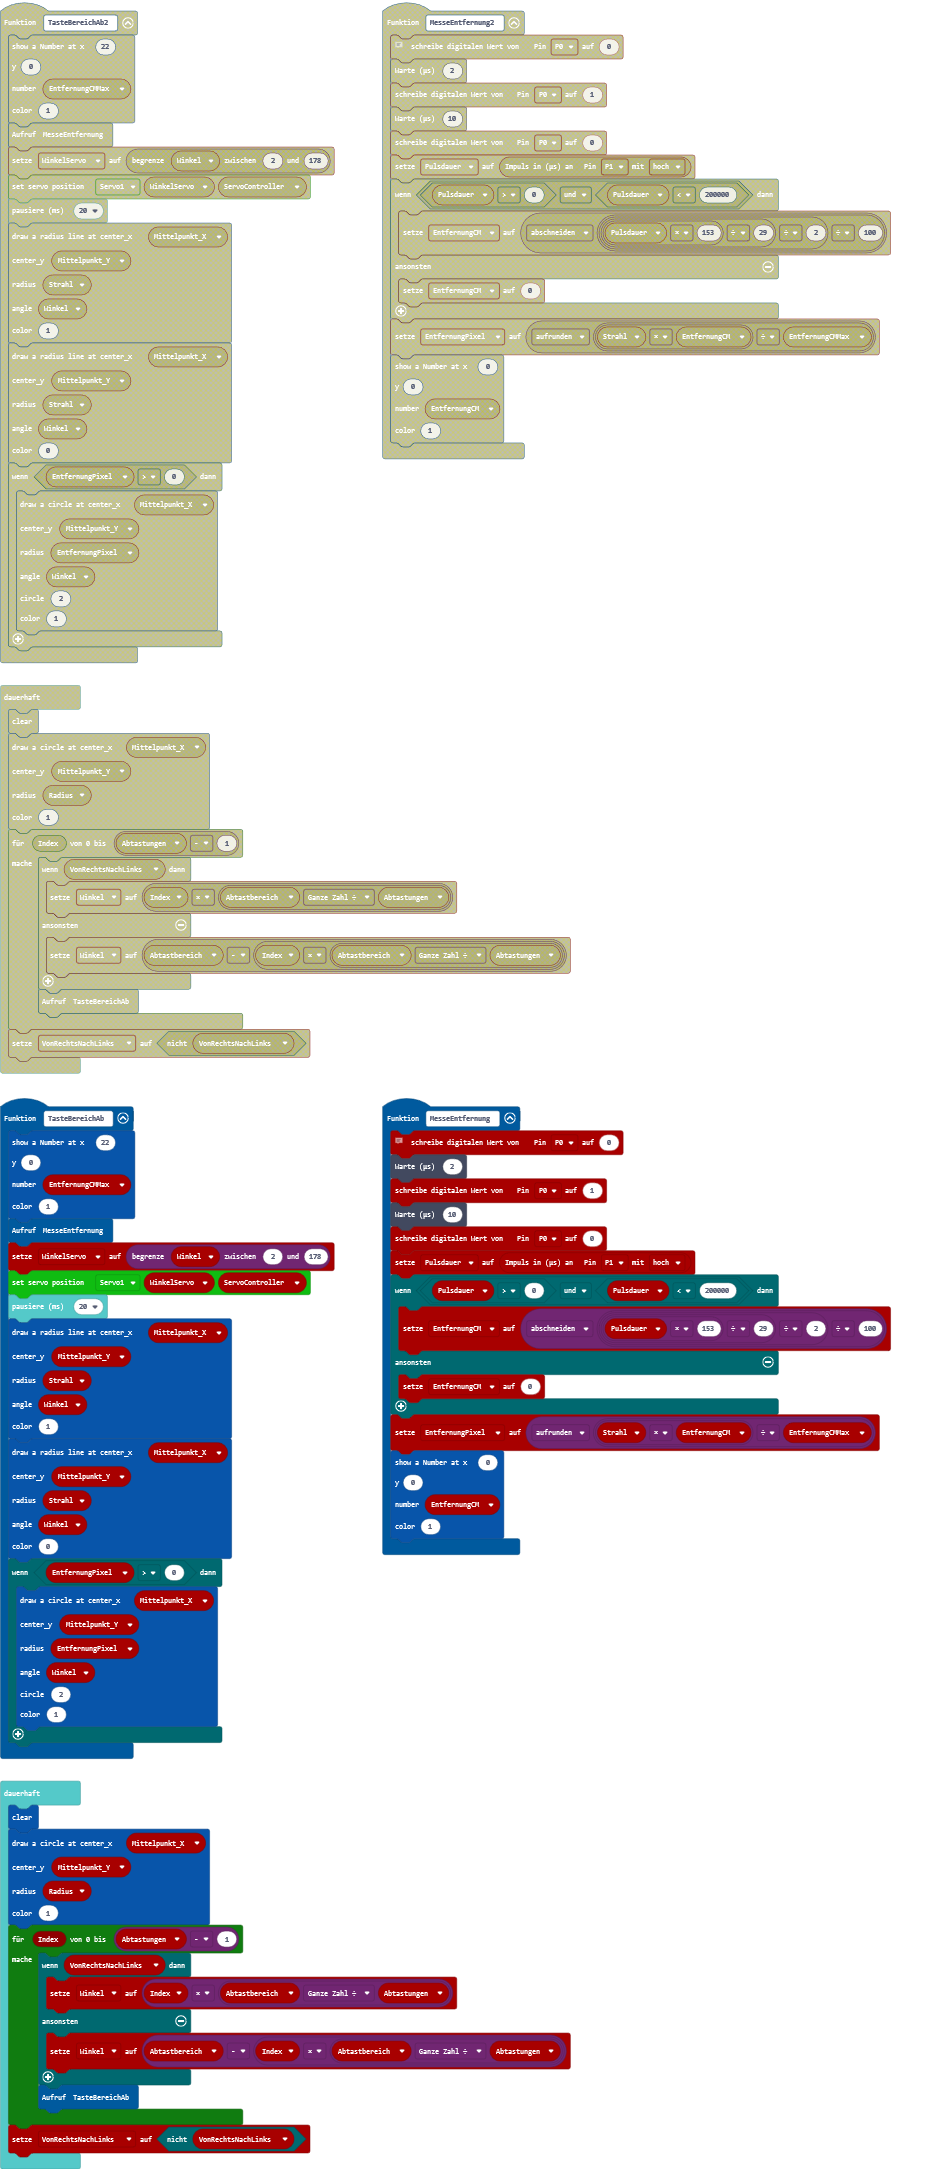
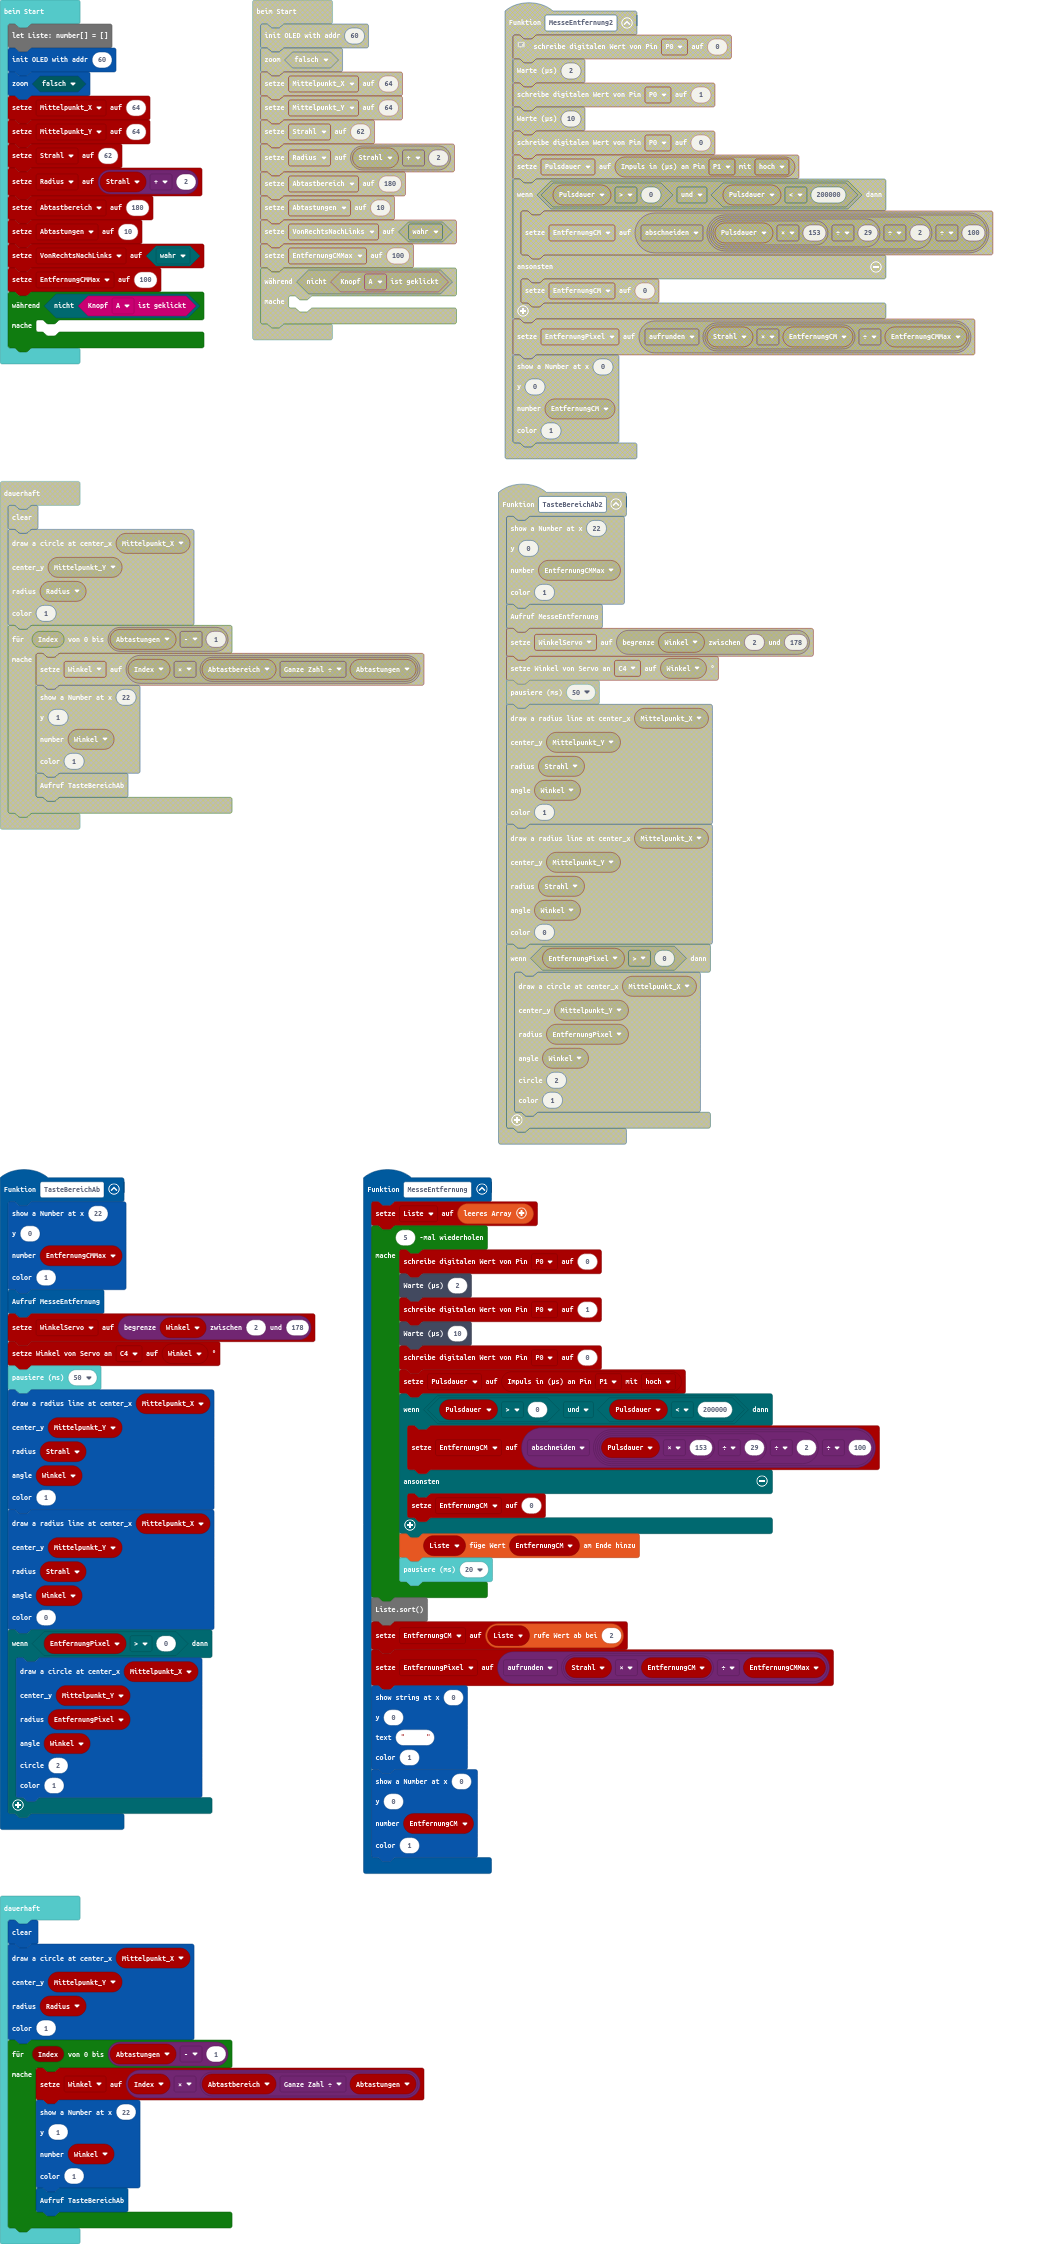
Aktualisiere main.blocks, main.ts

diff --git a/main.ts b/main.ts
@@ -40,19 +40,31 @@ input.onButtonPressed(Button.A, function () {
     }
 })
 function MesseEntfernung () {
-    // send pulse
-    pins.digitalWritePin(DigitalPin.P0, 0)
-    control.waitMicros(2)
-    pins.digitalWritePin(DigitalPin.P0, 1)
-    control.waitMicros(10)
-    pins.digitalWritePin(DigitalPin.P0, 0)
-    Pulsdauer = pins.pulseIn(DigitalPin.P1, PulseValue.High)
-    if (Pulsdauer > 0 && Pulsdauer < 200000) {
-        EntfernungCM = Math.trunc(Pulsdauer * 153 / 29 / 2 / 100)
-    } else {
-        EntfernungCM = 0
+    Liste = []
+    for (let index = 0; index < 5; index++) {
+        pins.digitalWritePin(DigitalPin.P0, 0)
+        control.waitMicros(2)
+        pins.digitalWritePin(DigitalPin.P0, 1)
+        control.waitMicros(10)
+        pins.digitalWritePin(DigitalPin.P0, 0)
+        Pulsdauer = pins.pulseIn(DigitalPin.P1, PulseValue.High)
+        if (Pulsdauer > 0 && Pulsdauer < 200000) {
+            EntfernungCM = Math.trunc(Pulsdauer * 153 / 29 / 2 / 100)
+        } else {
+            EntfernungCM = 0
+        }
+        Liste.push(EntfernungCM)
+        basic.pause(20)
     }
+    Liste.sort()
+EntfernungCM = Liste[2]
     EntfernungPixel = Math.ceil(Strahl * EntfernungCM / EntfernungCMMax)
+    OLED12864_I2C.showString(
+    0,
+    0,
+    "     ",
+    1
+    )
     OLED12864_I2C.showNumber(
     0,
     0,
@@ -74,6 +86,7 @@ let EntfernungCMMax = 0
 let Strahl = 0
 let Mittelpunkt_Y = 0
 let Mittelpunkt_X = 0
+let Liste: number[] = []
 OLED12864_I2C.init(60)
 OLED12864_I2C.zoom(false)
 Mittelpunkt_X = 64
